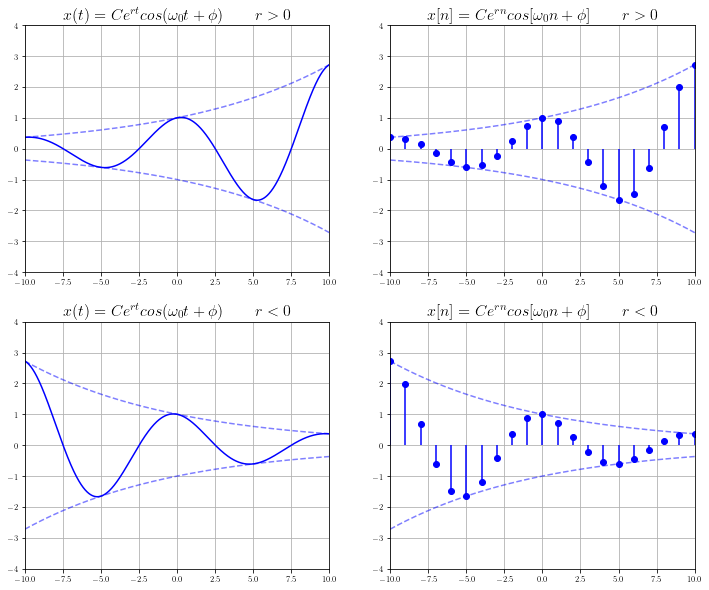
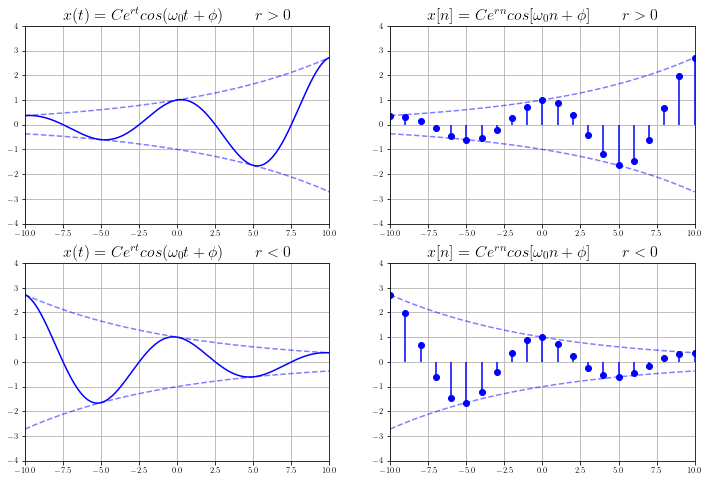
Update documentation

diff --git a/courses/dsp/intro.html b/courses/dsp/intro.html
@@ -688,7 +688,7 @@ title="Print to PDF"
 <div class="highlight-ipython3 notranslate"><div class="highlight"><pre><span></span><span class="n">t</span> <span class="o">=</span> <span class="n">sp</span><span class="o">.</span><span class="n">Symbol</span><span class="p">(</span><span class="s1">&#39;t&#39;</span><span class="p">)</span>
 <span class="n">fig</span><span class="p">,</span> <span class="n">ax</span> <span class="o">=</span> <span class="n">plt</span><span class="o">.</span><span class="n">subplots</span><span class="p">(</span>
     <span class="mi">2</span><span class="p">,</span> <span class="mi">2</span><span class="p">,</span> 
-    <span class="n">figsize</span><span class="o">=</span><span class="p">(</span><span class="mi">12</span><span class="p">,</span> <span class="mi">10</span><span class="p">),</span> 
+    <span class="n">figsize</span><span class="o">=</span><span class="p">(</span><span class="mi">12</span><span class="p">,</span> <span class="mi">8</span><span class="p">),</span> 
     <span class="c1"># tight_layout=True,</span>
 <span class="p">)</span>
 
@@ -757,7 +757,7 @@ title="Print to PDF"
 <div class="highlight-ipython3 notranslate"><div class="highlight"><pre><span></span><span class="n">t</span> <span class="o">=</span> <span class="n">sp</span><span class="o">.</span><span class="n">Symbol</span><span class="p">(</span><span class="s1">&#39;t&#39;</span><span class="p">)</span>
 <span class="n">fig</span><span class="p">,</span> <span class="n">ax</span> <span class="o">=</span> <span class="n">plt</span><span class="o">.</span><span class="n">subplots</span><span class="p">(</span>
     <span class="mi">2</span><span class="p">,</span> <span class="mi">2</span><span class="p">,</span> 
-    <span class="n">figsize</span><span class="o">=</span><span class="p">(</span><span class="mi">12</span><span class="p">,</span> <span class="mi">10</span><span class="p">),</span> 
+    <span class="n">figsize</span><span class="o">=</span><span class="p">(</span><span class="mi">12</span><span class="p">,</span> <span class="mi">8</span><span class="p">),</span> 
     <span class="c1"># tight_layout=True,</span>
 <span class="p">)</span>
 
